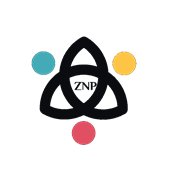
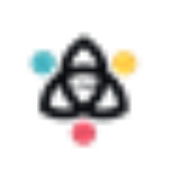
changes

Changed region(s): [[0.1389, 0.1667, 0.7778, 0.8333]]

diff --git a/agro-commerce.html b/agro-commerce.html
@@ -3,8 +3,11 @@
 <head>
   <meta charset="UTF-8" />
   <meta name="viewport" content="width=device-width, initial-scale=1.0" />
-  <link rel="icon" type="image/png" sizes="32x32" href="./favicon.png" />
-  <link rel="apple-touch-icon" sizes="180x180" href="./apple-touch-icon.png" />
+  <link rel="icon" type="image/png" href="/favicon-96x96.png" sizes="96x96" />
+  <link rel="icon" type="image/svg+xml" href="/favicon.svg" />
+  <link rel="shortcut icon" href="/favicon.ico" />
+  <link rel="apple-touch-icon" sizes="180x180" href="/apple-touch-icon.png" />
+  <link rel="manifest" href="/site.webmanifest" />
   <title>Zepfusion Agro — Agro-commerce &amp; farmer platforms | Zepfusion Noble Path Ventures</title>
   <meta name="description" content="Zepfusion Agro — farmer onboarding to market: AI-guided cultivation, optional blockchain crop traceability, direct marketplace, logistics, and embedded finance—phased MVP to nation-scale; training via ZepFusion Skill Exchange." />
   <link rel="canonical" href="https://zepfusion.com/agro-commerce.html" />

diff --git a/cancellation-policy.html b/cancellation-policy.html
@@ -3,8 +3,11 @@
 <head>
   <meta charset="UTF-8" />
   <meta name="viewport" content="width=device-width, initial-scale=1.0" />
-  <link rel="icon" type="image/png" sizes="32x32" href="./favicon.png" />
-  <link rel="apple-touch-icon" sizes="180x180" href="./apple-touch-icon.png" />
+  <link rel="icon" type="image/png" href="/favicon-96x96.png" sizes="96x96" />
+  <link rel="icon" type="image/svg+xml" href="/favicon.svg" />
+  <link rel="shortcut icon" href="/favicon.ico" />
+  <link rel="apple-touch-icon" sizes="180x180" href="/apple-touch-icon.png" />
+  <link rel="manifest" href="/site.webmanifest" />
   <title>Cancellation Policy | Zepfusion</title>
   <meta name="description" content="Cancellation Policy for Zepfusion subscription services, including trial cancellation and billing-cycle cancellation terms." />
   <link rel="canonical" href="https://zepfusion.com/cancellation-policy.html" />

diff --git a/education.html b/education.html
@@ -3,8 +3,11 @@
 <head>
   <meta charset="UTF-8" />
   <meta name="viewport" content="width=device-width, initial-scale=1.0" />
-  <link rel="icon" type="image/png" sizes="32x32" href="./favicon.png" />
-  <link rel="apple-touch-icon" sizes="180x180" href="./apple-touch-icon.png" />
+  <link rel="icon" type="image/png" href="/favicon-96x96.png" sizes="96x96" />
+  <link rel="icon" type="image/svg+xml" href="/favicon.svg" />
+  <link rel="shortcut icon" href="/favicon.ico" />
+  <link rel="apple-touch-icon" sizes="180x180" href="/apple-touch-icon.png" />
+  <link rel="manifest" href="/site.webmanifest" />
   <title>ZepFusion Skill Exchange — Learning marketplace | Zepfusion Noble Path Ventures</title>
   <meta name="description" content="ZepFusion Skill Exchange — a global learning marketplace by Zepfusion. Verifiable credentials, diaspora and international learners, blockchain trust. Bharat Skills Exchange is our India-flavoured campaign line." />
   <link rel="canonical" href="https://zepfusion.com/education.html" />

diff --git a/healthcare-diagnostics.html b/healthcare-diagnostics.html
@@ -3,8 +3,11 @@
 <head>
   <meta charset="UTF-8" />
   <meta name="viewport" content="width=device-width, initial-scale=1.0" />
-  <link rel="icon" type="image/png" sizes="32x32" href="./favicon.png" />
-  <link rel="apple-touch-icon" sizes="180x180" href="./apple-touch-icon.png" />
+  <link rel="icon" type="image/png" href="/favicon-96x96.png" sizes="96x96" />
+  <link rel="icon" type="image/svg+xml" href="/favicon.svg" />
+  <link rel="shortcut icon" href="/favicon.ico" />
+  <link rel="apple-touch-icon" sizes="180x180" href="/apple-touch-icon.png" />
+  <link rel="manifest" href="/site.webmanifest" />
   <title>Zepfusion Health — Diagnostics &amp; pathology platform | Zepfusion Noble Path Ventures</title>
   <meta name="description" content="Zepfusion Health helps diagnostic chains and labs deliver a modern patient experience—smooth bookings, reliable operations, trusted reports, and training for your teams via ZepFusion Skill Exchange." />
   <link rel="canonical" href="https://zepfusion.com/healthcare-diagnostics.html" />

diff --git a/index.html b/index.html
@@ -3,8 +3,11 @@
 <head>
   <meta charset="UTF-8" />
   <meta name="viewport" content="width=device-width, initial-scale=1.0" />
-  <link rel="icon" type="image/png" sizes="32x32" href="./favicon.png" />
-  <link rel="apple-touch-icon" sizes="180x180" href="./apple-touch-icon.png" />
+  <link rel="icon" type="image/png" href="/favicon-96x96.png" sizes="96x96" />
+  <link rel="icon" type="image/svg+xml" href="/favicon.svg" />
+  <link rel="shortcut icon" href="/favicon.ico" />
+  <link rel="apple-touch-icon" sizes="180x180" href="/apple-touch-icon.png" />
+  <link rel="manifest" href="/site.webmanifest" />
   <title>Zepfusion Noble Path Ventures — Technology for Industry</title>
   <meta name="description" content="Zepfusion Noble Path Ventures delivers turnkey software, enterprise integrations, and intelligent platforms for agro-commerce, legal, healthcare, and education. Cloud, APIs, blockchain, AI, ERP, and mobile." />
   <link rel="canonical" href="https://zepfusion.com/" />

diff --git a/legal-law-firms.html b/legal-law-firms.html
@@ -3,8 +3,11 @@
 <head>
   <meta charset="UTF-8" />
   <meta name="viewport" content="width=device-width, initial-scale=1.0" />
-  <link rel="icon" type="image/png" sizes="32x32" href="./favicon.png" />
-  <link rel="apple-touch-icon" sizes="180x180" href="./apple-touch-icon.png" />
+  <link rel="icon" type="image/png" href="/favicon-96x96.png" sizes="96x96" />
+  <link rel="icon" type="image/svg+xml" href="/favicon.svg" />
+  <link rel="shortcut icon" href="/favicon.ico" />
+  <link rel="apple-touch-icon" sizes="180x180" href="/apple-touch-icon.png" />
+  <link rel="manifest" href="/site.webmanifest" />
   <title>Zepfusion Legal — Law firms &amp; legal operations | Zepfusion Noble Path Ventures</title>
   <meta name="description" content="Zepfusion Legal — one coherent practice from intake to invoice: client-grade experience, visible matters, fair billing, approvals that match how your partners work, and optional integrity for high-stakes documents. Plus ZepFusion Skill Exchange for your team." />
   <link rel="canonical" href="https://zepfusion.com/legal-law-firms.html" />

diff --git a/privacy-policy.html b/privacy-policy.html
@@ -3,8 +3,11 @@
 <head>
   <meta charset="UTF-8" />
   <meta name="viewport" content="width=device-width, initial-scale=1.0" />
-  <link rel="icon" type="image/png" sizes="32x32" href="./favicon.png" />
-  <link rel="apple-touch-icon" sizes="180x180" href="./apple-touch-icon.png" />
+  <link rel="icon" type="image/png" href="/favicon-96x96.png" sizes="96x96" />
+  <link rel="icon" type="image/svg+xml" href="/favicon.svg" />
+  <link rel="shortcut icon" href="/favicon.ico" />
+  <link rel="apple-touch-icon" sizes="180x180" href="/apple-touch-icon.png" />
+  <link rel="manifest" href="/site.webmanifest" />
   <title>Privacy Policy | Zepfusion</title>
   <meta name="description" content="Privacy Policy for Zepfusion Noble Path Ventures Private Limited covering data collection, usage, sharing, retention, and user rights." />
   <link rel="canonical" href="https://zepfusion.com/privacy-policy.html" />

diff --git a/product-pricing.html b/product-pricing.html
@@ -3,8 +3,11 @@
 <head>
   <meta charset="UTF-8" />
   <meta name="viewport" content="width=device-width, initial-scale=1.0" />
-  <link rel="icon" type="image/png" sizes="32x32" href="./favicon.png" />
-  <link rel="apple-touch-icon" sizes="180x180" href="./apple-touch-icon.png" />
+  <link rel="icon" type="image/png" href="/favicon-96x96.png" sizes="96x96" />
+  <link rel="icon" type="image/svg+xml" href="/favicon.svg" />
+  <link rel="shortcut icon" href="/favicon.ico" />
+  <link rel="apple-touch-icon" sizes="180x180" href="/apple-touch-icon.png" />
+  <link rel="manifest" href="/site.webmanifest" />
   <title>Product Pricing | Zepfusion</title>
   <meta name="description" content="Quote-based pricing overview for Zepfusion products and services, including trial details and what affects final pricing." />
   <link rel="canonical" href="https://zepfusion.com/product-pricing.html" />

diff --git a/real-world-assets.html b/real-world-assets.html
@@ -3,8 +3,11 @@
 <head>
   <meta charset="UTF-8" />
   <meta name="viewport" content="width=device-width, initial-scale=1.0" />
-  <link rel="icon" type="image/png" sizes="32x32" href="./favicon.png" />
-  <link rel="apple-touch-icon" sizes="180x180" href="./apple-touch-icon.png" />
+  <link rel="icon" type="image/png" href="/favicon-96x96.png" sizes="96x96" />
+  <link rel="icon" type="image/svg+xml" href="/favicon.svg" />
+  <link rel="shortcut icon" href="/favicon.ico" />
+  <link rel="apple-touch-icon" sizes="180x180" href="/apple-touch-icon.png" />
+  <link rel="manifest" href="/site.webmanifest" />
   <title>Real World Assets (RWA) &amp; Digital Ownership | Zepfusion Noble Path Ventures</title>
   <meta name="description" content="Real world assets (RWA): tokenized real estate, verified carbon credits, and authentic handicraft NFTs. Secure digital ownership and trading—from culture to capital." />
   <link rel="canonical" href="https://zepfusion.com/real-world-assets.html" />

diff --git a/refund-and-return-policy.html b/refund-and-return-policy.html
@@ -3,8 +3,11 @@
 <head>
   <meta charset="UTF-8" />
   <meta name="viewport" content="width=device-width, initial-scale=1.0" />
-  <link rel="icon" type="image/png" sizes="32x32" href="./favicon.png" />
-  <link rel="apple-touch-icon" sizes="180x180" href="./apple-touch-icon.png" />
+  <link rel="icon" type="image/png" href="/favicon-96x96.png" sizes="96x96" />
+  <link rel="icon" type="image/svg+xml" href="/favicon.svg" />
+  <link rel="shortcut icon" href="/favicon.ico" />
+  <link rel="apple-touch-icon" sizes="180x180" href="/apple-touch-icon.png" />
+  <link rel="manifest" href="/site.webmanifest" />
   <title>Refund &amp; Return Policy | Zepfusion</title>
   <meta name="description" content="Refund and Return Policy for Zepfusion subscription services, including trial details and refund request process." />
   <link rel="canonical" href="https://zepfusion.com/refund-and-return-policy.html" />

diff --git a/terms-and-conditions.html b/terms-and-conditions.html
@@ -3,8 +3,11 @@
 <head>
   <meta charset="UTF-8" />
   <meta name="viewport" content="width=device-width, initial-scale=1.0" />
-  <link rel="icon" type="image/png" sizes="32x32" href="./favicon.png" />
-  <link rel="apple-touch-icon" sizes="180x180" href="./apple-touch-icon.png" />
+  <link rel="icon" type="image/png" href="/favicon-96x96.png" sizes="96x96" />
+  <link rel="icon" type="image/svg+xml" href="/favicon.svg" />
+  <link rel="shortcut icon" href="/favicon.ico" />
+  <link rel="apple-touch-icon" sizes="180x180" href="/apple-touch-icon.png" />
+  <link rel="manifest" href="/site.webmanifest" />
   <title>Terms &amp; Conditions | Zepfusion</title>
   <meta name="description" content="Terms and Conditions for Zepfusion Noble Path Ventures Private Limited covering service use, trial, payments, acceptable use, and liability." />
   <link rel="canonical" href="https://zepfusion.com/terms-and-conditions.html" />